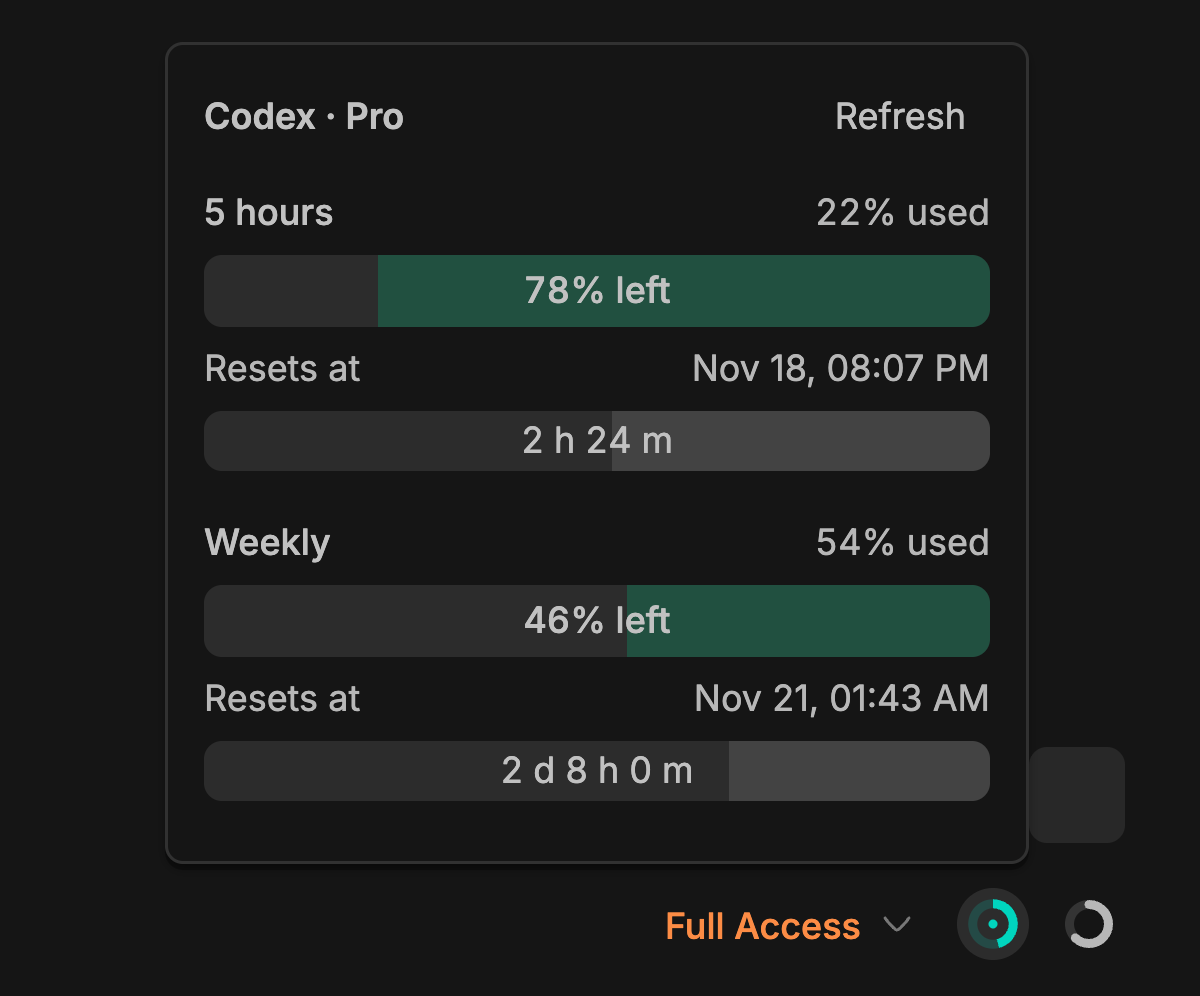
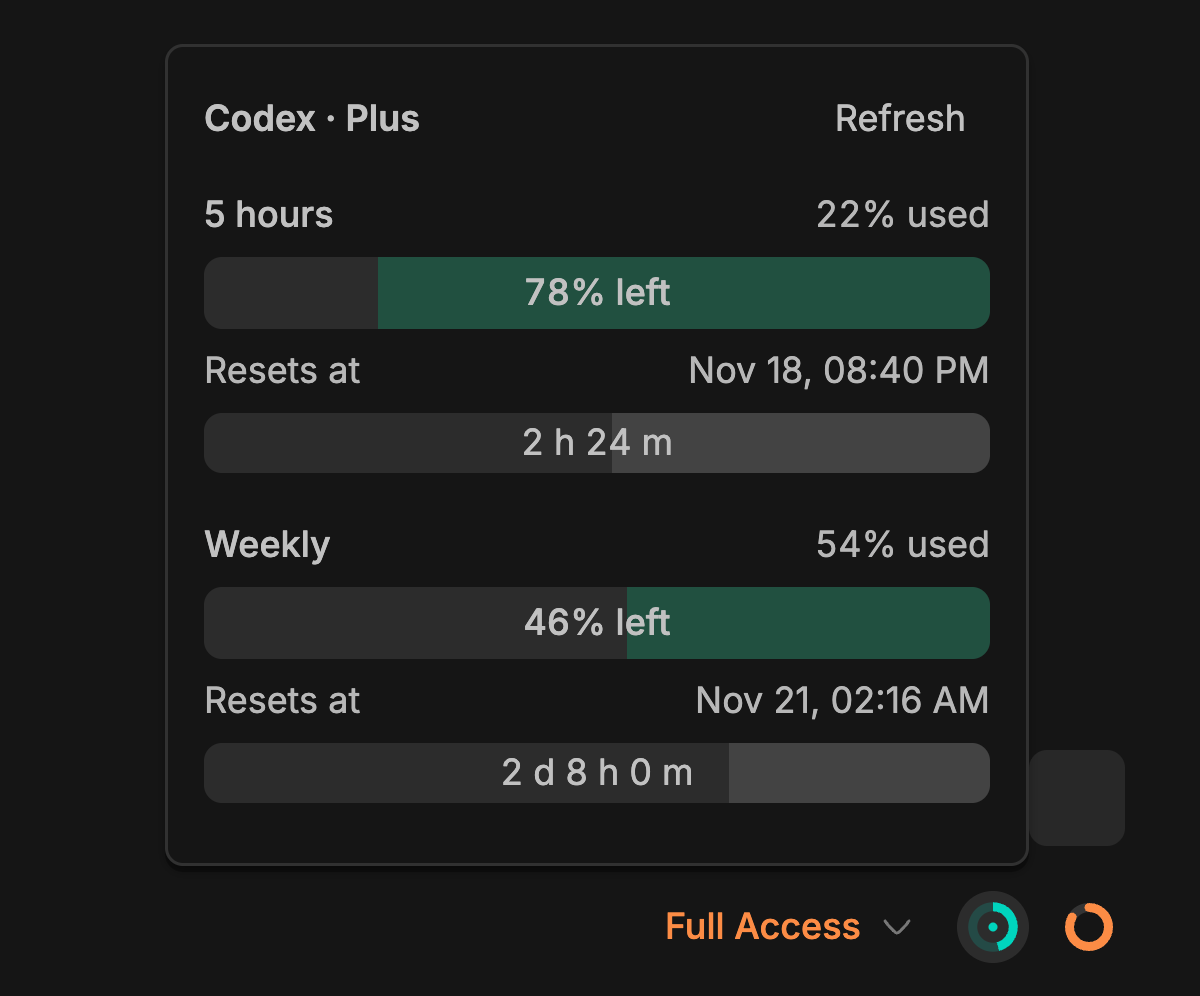
Shorten English and Russian plugin guides and clarify the quota example

diff --git a/README.ru.md b/README.ru.md
@@ -1,114 +1,52 @@
-# Codex Quota
+# Codex Quota для BB
 
 [English](README.md)
 
-Codex Quota — плагин для BB, который показывает остаток лимитов подписки Codex.
-Бирюзовое кольцо рядом с индикатором контекста показывает наименьший остаток
-в процентах среди всех лимитов, которые сообщает Codex.
+Сколько осталось от лимита OpenAI Codex и когда он сбросится? В чате BB достаточно навести курсор на бирюзовое кольцо рядом с индикатором контекста.
 
-<img src="marketplace/screenshots/codex-quota/quota-light.png" width="480" alt="Нижняя панель чата BB с бирюзовым кольцом и окном лимитов на русском языке, данные для примера">
+<img src="marketplace/screenshots/codex-quota/quota-light.png" width="480" alt="Остатки лимитов Codex в чате BB: 78% на пять часов, 46% на неделю">
 
-## Требования
+В карточке виден каждый лимит, который передаёт Codex. Кольцо показывает наименьший остаток. На скриншоте осталось 78% пятичасового лимита и 46% недельного, поэтому кольцо заполнено на **46%**.
 
-- BB 0.49 или новее с Plugin SDK версии 0.6.132 или новее в ветке 0.x.
-- Включённый встроенный провайдер Codex в BB. На машине, где работает чат,
-  должен быть установлен Codex и выполнен вход в аккаунт ChatGPT с подпиской
-  Codex.
-- Чат Codex с видимым индикатором контекста под полем ввода.
+Нажатие закрепляет карточку. С клавиатуры её открывают **Enter** или **Пробел**, закрывает **Esc**. Пока чат виден, плагин проверяет лимиты каждые две минуты. Кнопка **Обновить** запрашивает свежие данные. Если данных нет, им уже 90 минут или наступило время сброса, вместо процента появится **?**.
 
-Плагин использует вашу подписку. Дополнительных платежей за плагин нет.
+## Установка в BB
 
-## Установка
+Требуются BB 0.49+, Plugin SDK от 0.6.132 в ветке 0.x и встроенный провайдер Codex. На машине, где запущен чат, нужен вход в Codex CLI через аккаунт ChatGPT с доступом к Codex.
 
-### Из локальной копии
-
-Этот способ работает до первого публичного релиза. Понадобятся Node.js, npm
-и команда `bb` в PATH. Команды запускаются из корня локальной копии репозитория.
-BB соберёт плагин при установке и подключит его из этой папки.
+**Из локальной копии.** В корне репозитория, с Node.js, npm и `bb` в PATH:
 
 ```sh
 npm ci --omit=dev --ignore-scripts
 bb plugin install .
 ```
 
-### Из Git после публикации тега
-
-Когда репозиторий станет публичным и появится тег `v0.1.0`, плагин можно
-будет установить через BB CLI. Для этого способа BB использует встроенный npm.
-В PATH понадобится `git`.
+**Из Git.** После публикации тега `v0.1.0` плагин можно будет установить и обновлять командами BB:
 
 ```sh
 bb plugin install 'git:https://github.com/ai-babai/bb-plugin-codex-quota.git@^0.1.0'
+bb plugin update codex-quota
 ```
 
-Этот диапазон включает совместимые версии с тегами 0.1.x. Команда
-`bb plugin update codex-quota` устанавливает доступное совместимое обновление.
+## Язык
 
-## Как читать индикатор
-
-При наведении на бирюзовое кольцо рядом с индикатором контекста открывается
-окно с остатком по каждому доступному лимиту, например за пять часов или за
-неделю. Если провайдер передал время сброса, окно покажет его и обратный отсчёт.
-Полосы убывают слева направо.
-
-Нажатие на кольцо закрепляет окно. С клавиатуры окно открывается клавишами
-**Enter** или **Пробел**, когда кольцо в фокусе, и закрывается клавишей **Esc**.
-Кнопка **Обновить** запрашивает свежие данные у провайдера Codex. Пока страница
-видна, плагин проверяет лимиты каждые две минуты. Обратный отсчёт обновляется
-каждые 15 секунд.
-
-Знак вопроса означает, что остаток неизвестен. Данные устаревают через 90 минут.
-Когда наступает время сброса, заливка кольца появится снова после получения
-свежих данных. Если кольцо пропало, стоит проверить, виден ли индикатор
-контекста. Изменения в разметке нижней панели BB могут повлиять на размещение
-кольца.
-
-## Язык интерфейса плагина
-
-По умолчанию плагин работает на английском. В BB нужная настройка находится
-в разделе **Settings → Installed plugins**. Шестерёнка рядом с **Codex Quota**
-открывает настройки, где в поле **Language** можно выбрать **English** или
-**Русский**. Окно лимитов сразу переключится на выбранный язык, а BB сохранит
-настройку.
-
-Переключить плагин на русский можно и через CLI.
+По умолчанию выбран английский. Переключить на русский можно в настройках **Codex Quota → Language → Русский** или через CLI:
 
 ```sh
 bb plugin config codex-quota set language ru
 ```
 
-Код `en` возвращает английский язык.
+Для английского — `en`. BB запоминает выбор.
 
-## Приватность
+## Приватность и разработка
 
-Плагин получает данные о лимитах через публичный API провайдеров BB для машины,
-на которой работает открытый чат Codex. В браузер передаются название тарифа,
-время получения данных, периоды лимитов, проценты остатка и время сброса.
-Плагин не читает файлы с учётными данными. Идентификаторы аккаунта, адреса
-электронной почты и исходные сообщения об ошибках провайдера остаются за
-пределами ответа.
+Плагин получает лимиты от провайдера Codex в BB. У него нет собственной телеметрии, и он не читает файлы с учётными данными.
 
-Плагин не отправляет телеметрию автору. По кнопке **Обновить** провайдер Codex
-может обратиться к своему сервису лимитов. BB запускает установленные плагины
-с полным доверием.
-
-## Разработка
-
-Для проверок нужны Node.js 22.13+ в ветке 22.x или Node.js 24+, npm и команда
-`bb`. Команды запускаются из корня репозитория.
+Для проверок из корня нужны Node.js 22.13+ (22.x) или 24+, npm и `bb`.
 
 ```sh
 npm ci --ignore-scripts
 npm run check
 ```
 
-Команда проверяет типы, запускает Vitest, собирает плагин через BB и сверяет
-состав пакета. Для разработки можно один раз подключить локальную копию
-командой `bb plugin install .`, а затем запустить `bb plugin dev` для
-пересборки и перезагрузки при сохранении файлов.
-
-Точки входа в код и материалы для релиза перечислены в [карте проекта](INDEX.md).
-
-## Лицензия
-
-Независимый плагин сообщества под [лицензией MIT](LICENSE).
+[Карта проекта](INDEX.md) · [Лицензия MIT](LICENSE)

diff --git a/README.md b/README.md
@@ -1,107 +1,52 @@
-# Codex Quota
+# Codex Quota for BB
 
 [Русский](README.ru.md)
 
-Codex Quota is a BB plugin that shows how much of your Codex subscription quota
-is left. The teal ring beside the thread’s context meter shows the lowest
-remaining percentage across the quota windows reported by Codex.
+See how much of your OpenAI Codex subscription quota is left and when each limit resets. Hover over the teal ring beside the context meter in a BB thread.
 
-<img src="marketplace/screenshots/codex-quota/footer-dark.png" width="480" alt="BB thread footer with the teal quota ring and an English popover showing sample quota and reset times">
+<img src="marketplace/screenshots/codex-quota/footer-dark.png" width="480" alt="Codex Plus example in BB: 78% of the five-hour quota and 46% of the weekly quota remaining">
 
-## Requirements
+The ring shows the lowest remaining percentage. In the example above, that’s **46%**. The card lists only the limits Codex reports for your account. A **?** means usage is missing, at least 90 minutes old, or due for a new reading after a reset.
 
-- BB 0.49 or later with Plugin SDK 0.6.132 or later in the 0.x series.
-- BB’s bundled Codex provider enabled. On the machine that runs the thread,
-  Codex must be installed and signed in to a ChatGPT account with a Codex
-  subscription.
-- A Codex thread with the context meter visible in its composer footer.
+Click or tap to pin the card. **Enter** or **Space** opens it from the keyboard, and **Esc** closes it. Usage updates every two minutes while the page is visible. **Refresh** requests a new reading.
 
-The plugin uses your existing subscription and adds no paid service.
+## Installation
 
-## Install
+Requires BB 0.49+, Plugin SDK 0.6.132 or newer in the 0.x series and BB’s bundled Codex provider. On the machine running the thread, Codex CLI must be signed in with a ChatGPT plan that includes Codex.
 
-### From a local checkout
-
-This works before the first public release. With Node.js, npm and the `bb` CLI
-on your PATH, run these commands from the root of a local copy of this repository.
-BB builds the plugin during installation and registers it from that directory.
+From a local checkout with npm and the BB CLI:
 
 ```sh
 npm ci --omit=dev --ignore-scripts
 bb plugin install .
 ```
 
-### From Git after the public tag
-
-Once the repository is public and `v0.1.0` is published, install with the BB CLI.
-BB uses its bundled npm for this route and requires `git` on PATH.
+After the first public tag (`v0.1.0`), installation and updates are available through Git:
 
 ```sh
 bb plugin install 'git:https://github.com/ai-babai/bb-plugin-codex-quota.git@^0.1.0'
+bb plugin update codex-quota
 ```
 
-The range tracks compatible 0.1.x tags. Use `bb plugin update codex-quota`
-to apply a compatible update.
+## Language
 
-## Use the quota indicator
-
-Open a Codex thread and hover over the teal ring beside the context meter.
-The popover shows the percentage left in each reported window, such as the
-five-hour and weekly limits, along with the reset time and countdown when
-available. The bars drain from left to right.
-
-Click or tap the ring to keep the popover open. With the ring focused, press
-**Enter** or **Space** to open it and **Esc** to dismiss it. Use **Refresh** to
-request current usage from the Codex provider. The plugin checks usage every
-two minutes while the page is visible and updates the countdown every 15
-seconds.
-
-A question mark indicates unknown quota. Data becomes stale after 90 minutes.
-When a reset time passes, the plugin waits for a fresh reading before showing
-the ring’s fill again. If the ring is missing, check that the context meter
-is visible. BB footer markup changes can affect where the ring appears.
-
-## Change the plugin language
-
-English is the default. In BB, open **Settings → Installed plugins**, select the
-gear beside **Codex Quota**, and set **Language** to **English** or **Русский**.
-The popover updates immediately, and BB saves the choice.
-
-The CLI can also switch the plugin to Russian.
+English is the default. Choose **English** or **Русский** in **Codex Quota settings → Language**. An agent can set the same preference from the CLI:
 
 ```sh
 bb plugin config codex-quota set language ru
 ```
 
-Use `en` to switch back to English.
-
 ## Privacy
 
-The plugin reads subscription usage through BB’s public provider usage API
-for the machine running the active Codex thread. The browser receives the plan
-label, observation time, quota windows, remaining percentages and reset times.
-Credential files stay untouched, and the response excludes account identifiers,
-email addresses and raw provider errors.
-
-The plugin sends no telemetry to its author. **Refresh** may prompt BB’s Codex
-provider to contact its usage service. BB runs installed plugins with full trust.
+Usage comes from BB’s Codex provider. The plugin reads no credentials and sends no telemetry. The provider may contact its usage service on refresh.
 
 ## Development
 
-The development checks use Node.js 22.13+ on the 22.x line or Node.js 24+,
-npm and the `bb` CLI. From the repository root, run:
+With Node.js 22.13+ (22.x) or 24+, npm and the BB CLI:
 
 ```sh
 npm ci --ignore-scripts
 npm run check
 ```
 
-The check runs TypeScript, Vitest and the BB build, then verifies the list of
-files in the package. For live development, run `bb plugin install .` once in
-the checkout, then `bb plugin dev` to rebuild and reload on save.
-
-Source entry points and release materials are listed in the [project index](INDEX.md).
-
-## License
-
-An independent community plugin released under the [MIT License](LICENSE).
+[Project map](INDEX.md) · [MIT license](LICENSE)

diff --git a/PLUGIN_OVERVIEW.md b/PLUGIN_OVERVIEW.md
@@ -1,30 +1,13 @@
-## Quota beside your thread
+## Reading the quota ring
 
-A teal ring beside the permission control shows the smallest remaining
-allowance across the limit windows your Codex provider reports.
+Hover over the teal ring beside the context meter in a BB thread. The card shows each limit your Codex account reports and when it resets. If 78% of your five-hour quota and 46% of your weekly quota remain, the ring shows 46%.
 
-Hover over the ring for each window's remaining percentage, reset date and
-countdown in days, hours and minutes. Click or tap to keep the panel open. The
-quota and countdown bars drain from left to right. The popover follows BB's
-light and dark themes and supports keyboard navigation and Escape dismissal.
-Select English or Русский in the plugin settings. English is the default.
+Click or tap to pin the card. Usage updates every two minutes while the page is visible. **Refresh** requests a new reading. A question mark means the plugin is waiting for current data.
 
-## Data and refresh
+## Setup
 
-The plugin reads quota from BB's bundled Codex provider on the machine running
-the current thread. It checks usage every 2 minutes while the page is visible
-and updates the countdown every 15 seconds. Select **Refresh** to request a
-provider update. If quota is missing, outdated or waiting for a new report
-after a reset, the ring shows a question mark.
+Requires BB 0.49+, Plugin SDK 0.6.132 or later in the 0.x series, and BB’s bundled Codex provider. Sign in to Codex CLI on the machine running the thread with a ChatGPT plan that includes Codex. Choose English or Russian in the plugin settings.
 
-The plugin reads quota values through BB's provider API. Credentials, account
-keys, email addresses and provider error bodies stay out of the interface.
+The plugin reads usage from BB’s provider. It reads no credentials and sends no telemetry.
 
-## Requirements
-
-Use BB 0.49 or newer with Plugin SDK 0.6.132 or newer in the 0.x series and the
-bundled Codex provider. Sign in to Codex CLI with your ChatGPT subscription on
-the machine running the thread. Open a Codex thread with the footer context
-meter visible.
-
-[Source code and issues](https://github.com/ai-babai/bb-plugin-codex-quota)
+[Installation and source code](https://github.com/ai-babai/bb-plugin-codex-quota)

diff --git a/marketplace/overview/codex-quota.md b/marketplace/overview/codex-quota.md
@@ -1,30 +1,13 @@
-## Quota beside your thread
+## Reading the quota ring
 
-A teal ring beside the permission control shows the smallest remaining
-allowance across the limit windows your Codex provider reports.
+Hover over the teal ring beside the context meter in a BB thread. The card shows each limit your Codex account reports and when it resets. If 78% of your five-hour quota and 46% of your weekly quota remain, the ring shows 46%.
 
-Hover over the ring for each window's remaining percentage, reset date and
-countdown in days, hours and minutes. Click or tap to keep the panel open. The
-quota and countdown bars drain from left to right. The popover follows BB's
-light and dark themes and supports keyboard navigation and Escape dismissal.
-Select English or Русский in the plugin settings. English is the default.
+Click or tap to pin the card. Usage updates every two minutes while the page is visible. **Refresh** requests a new reading. A question mark means the plugin is waiting for current data.
 
-## Data and refresh
+## Setup
 
-The plugin reads quota from BB's bundled Codex provider on the machine running
-the current thread. It checks usage every 2 minutes while the page is visible
-and updates the countdown every 15 seconds. Select **Refresh** to request a
-provider update. If quota is missing, outdated or waiting for a new report
-after a reset, the ring shows a question mark.
+Requires BB 0.49+, Plugin SDK 0.6.132 or later in the 0.x series, and BB’s bundled Codex provider. Sign in to Codex CLI on the machine running the thread with a ChatGPT plan that includes Codex. Choose English or Russian in the plugin settings.
 
-The plugin reads quota values through BB's provider API. Credentials, account
-keys, email addresses and provider error bodies stay out of the interface.
+The plugin reads usage from BB’s provider. It reads no credentials and sends no telemetry.
 
-## Requirements
-
-Use BB 0.49 or newer with Plugin SDK 0.6.132 or newer in the 0.x series and the
-bundled Codex provider. Sign in to Codex CLI with your ChatGPT subscription on
-the machine running the thread. Open a Codex thread with the footer context
-meter visible.
-
-[Source code and issues](https://github.com/ai-babai/bb-plugin-codex-quota)
+[Installation and source code](https://github.com/ai-babai/bb-plugin-codex-quota)
